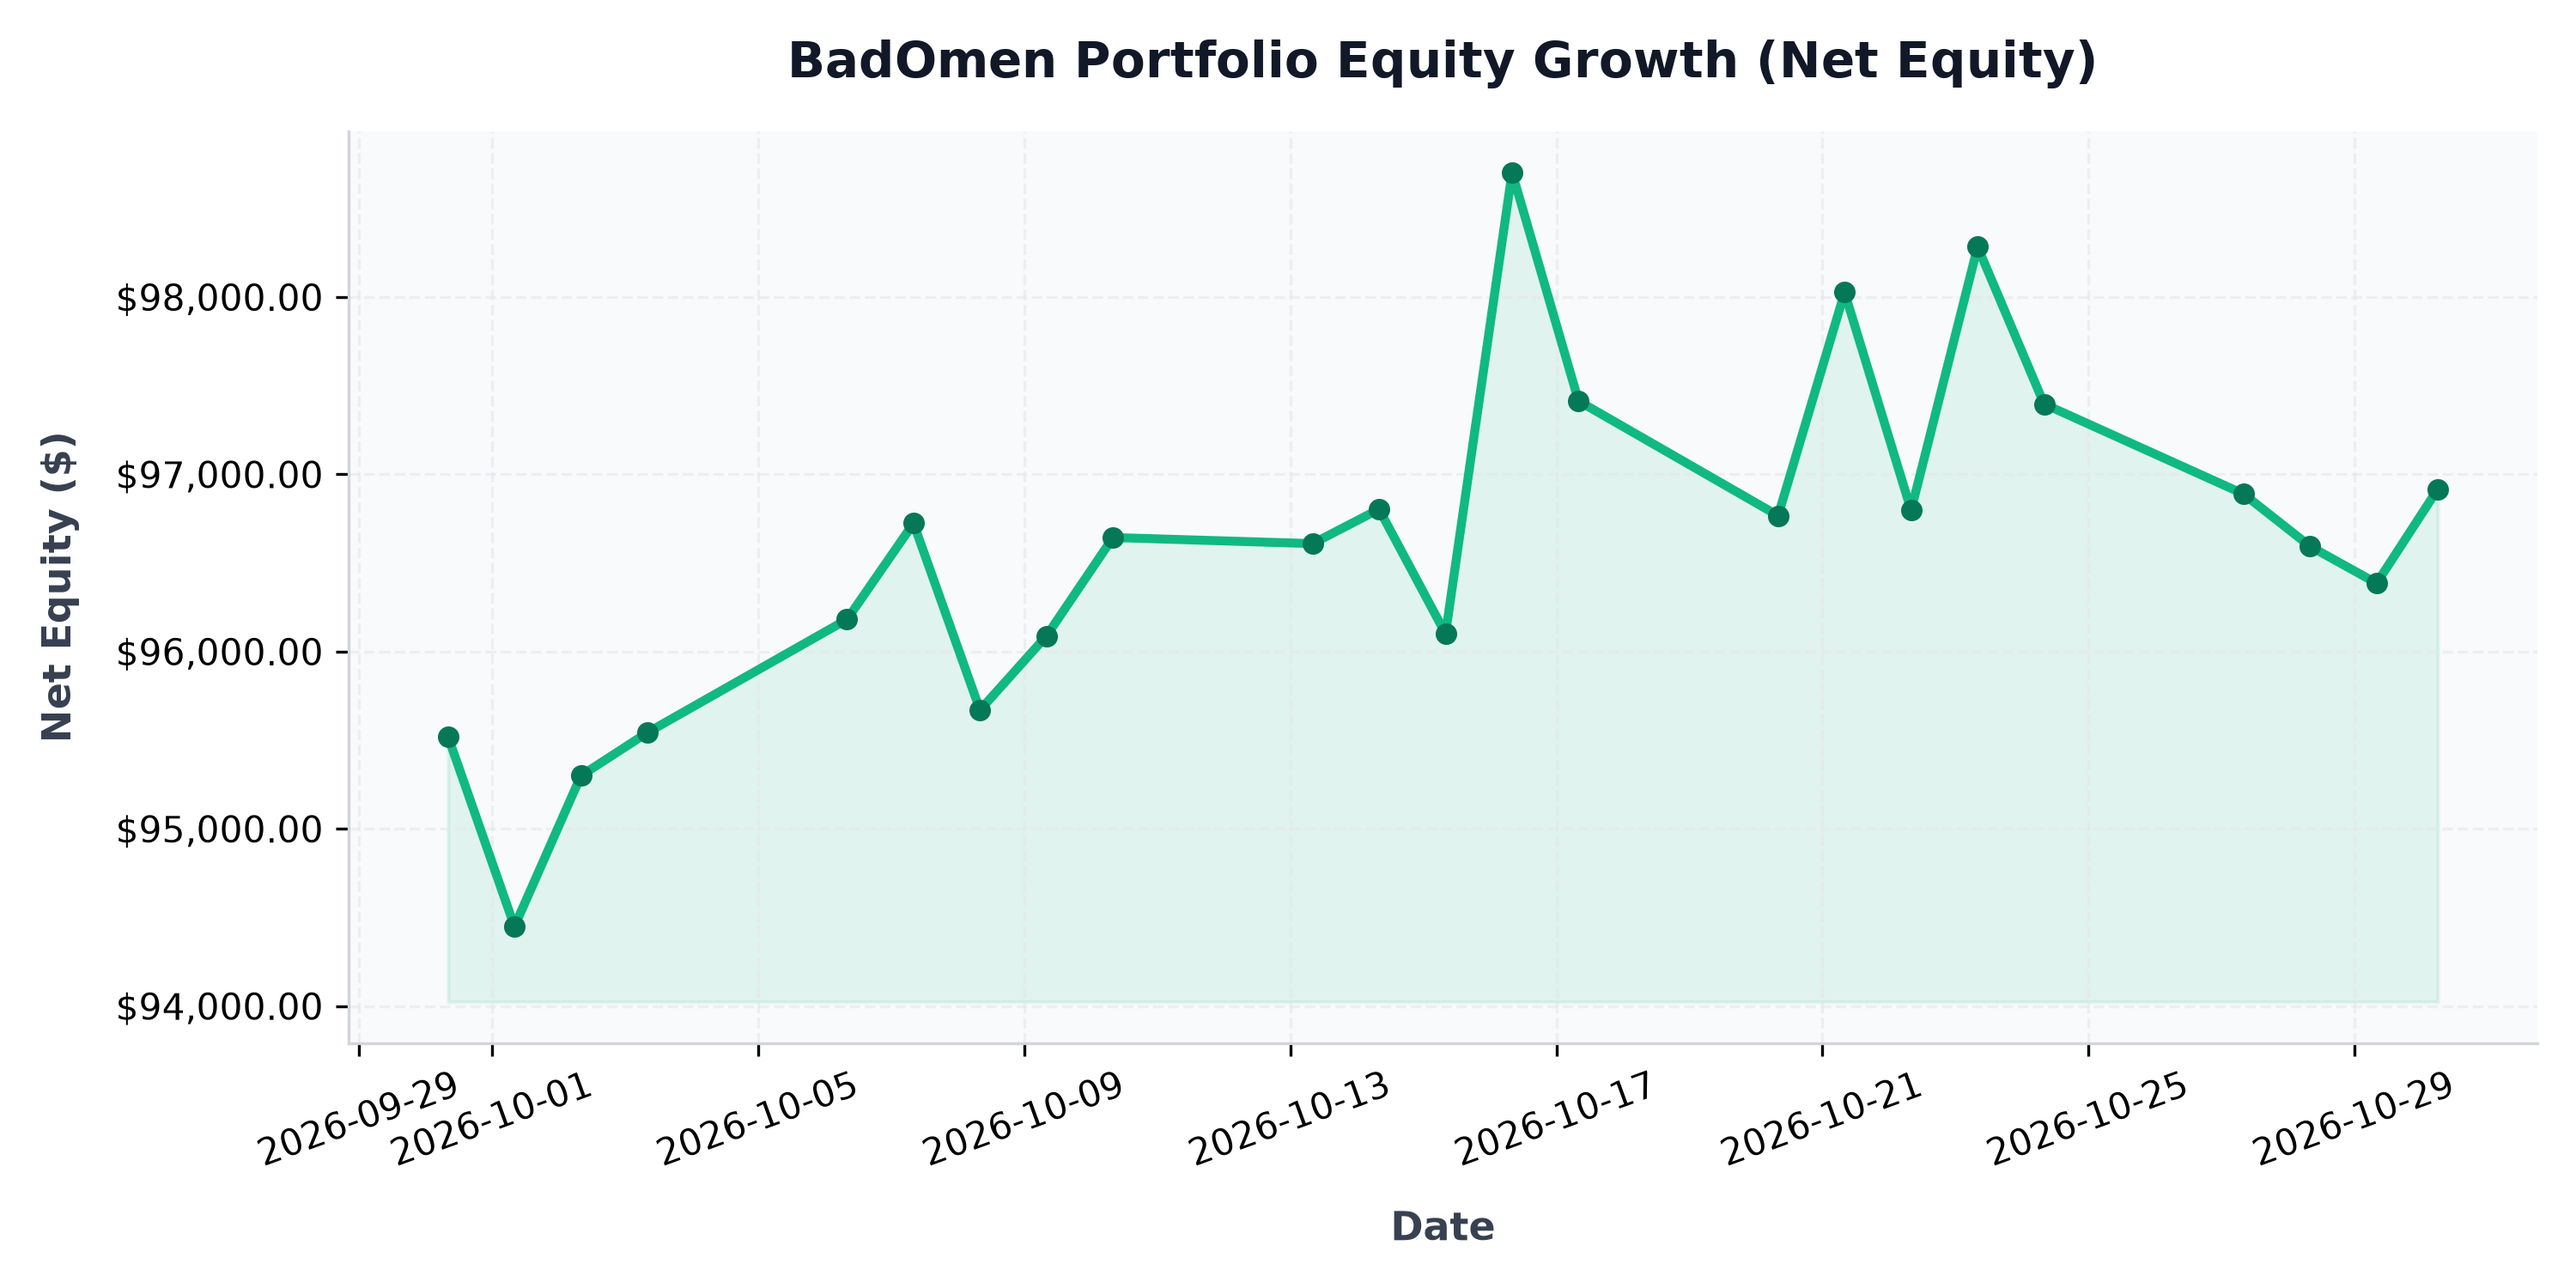
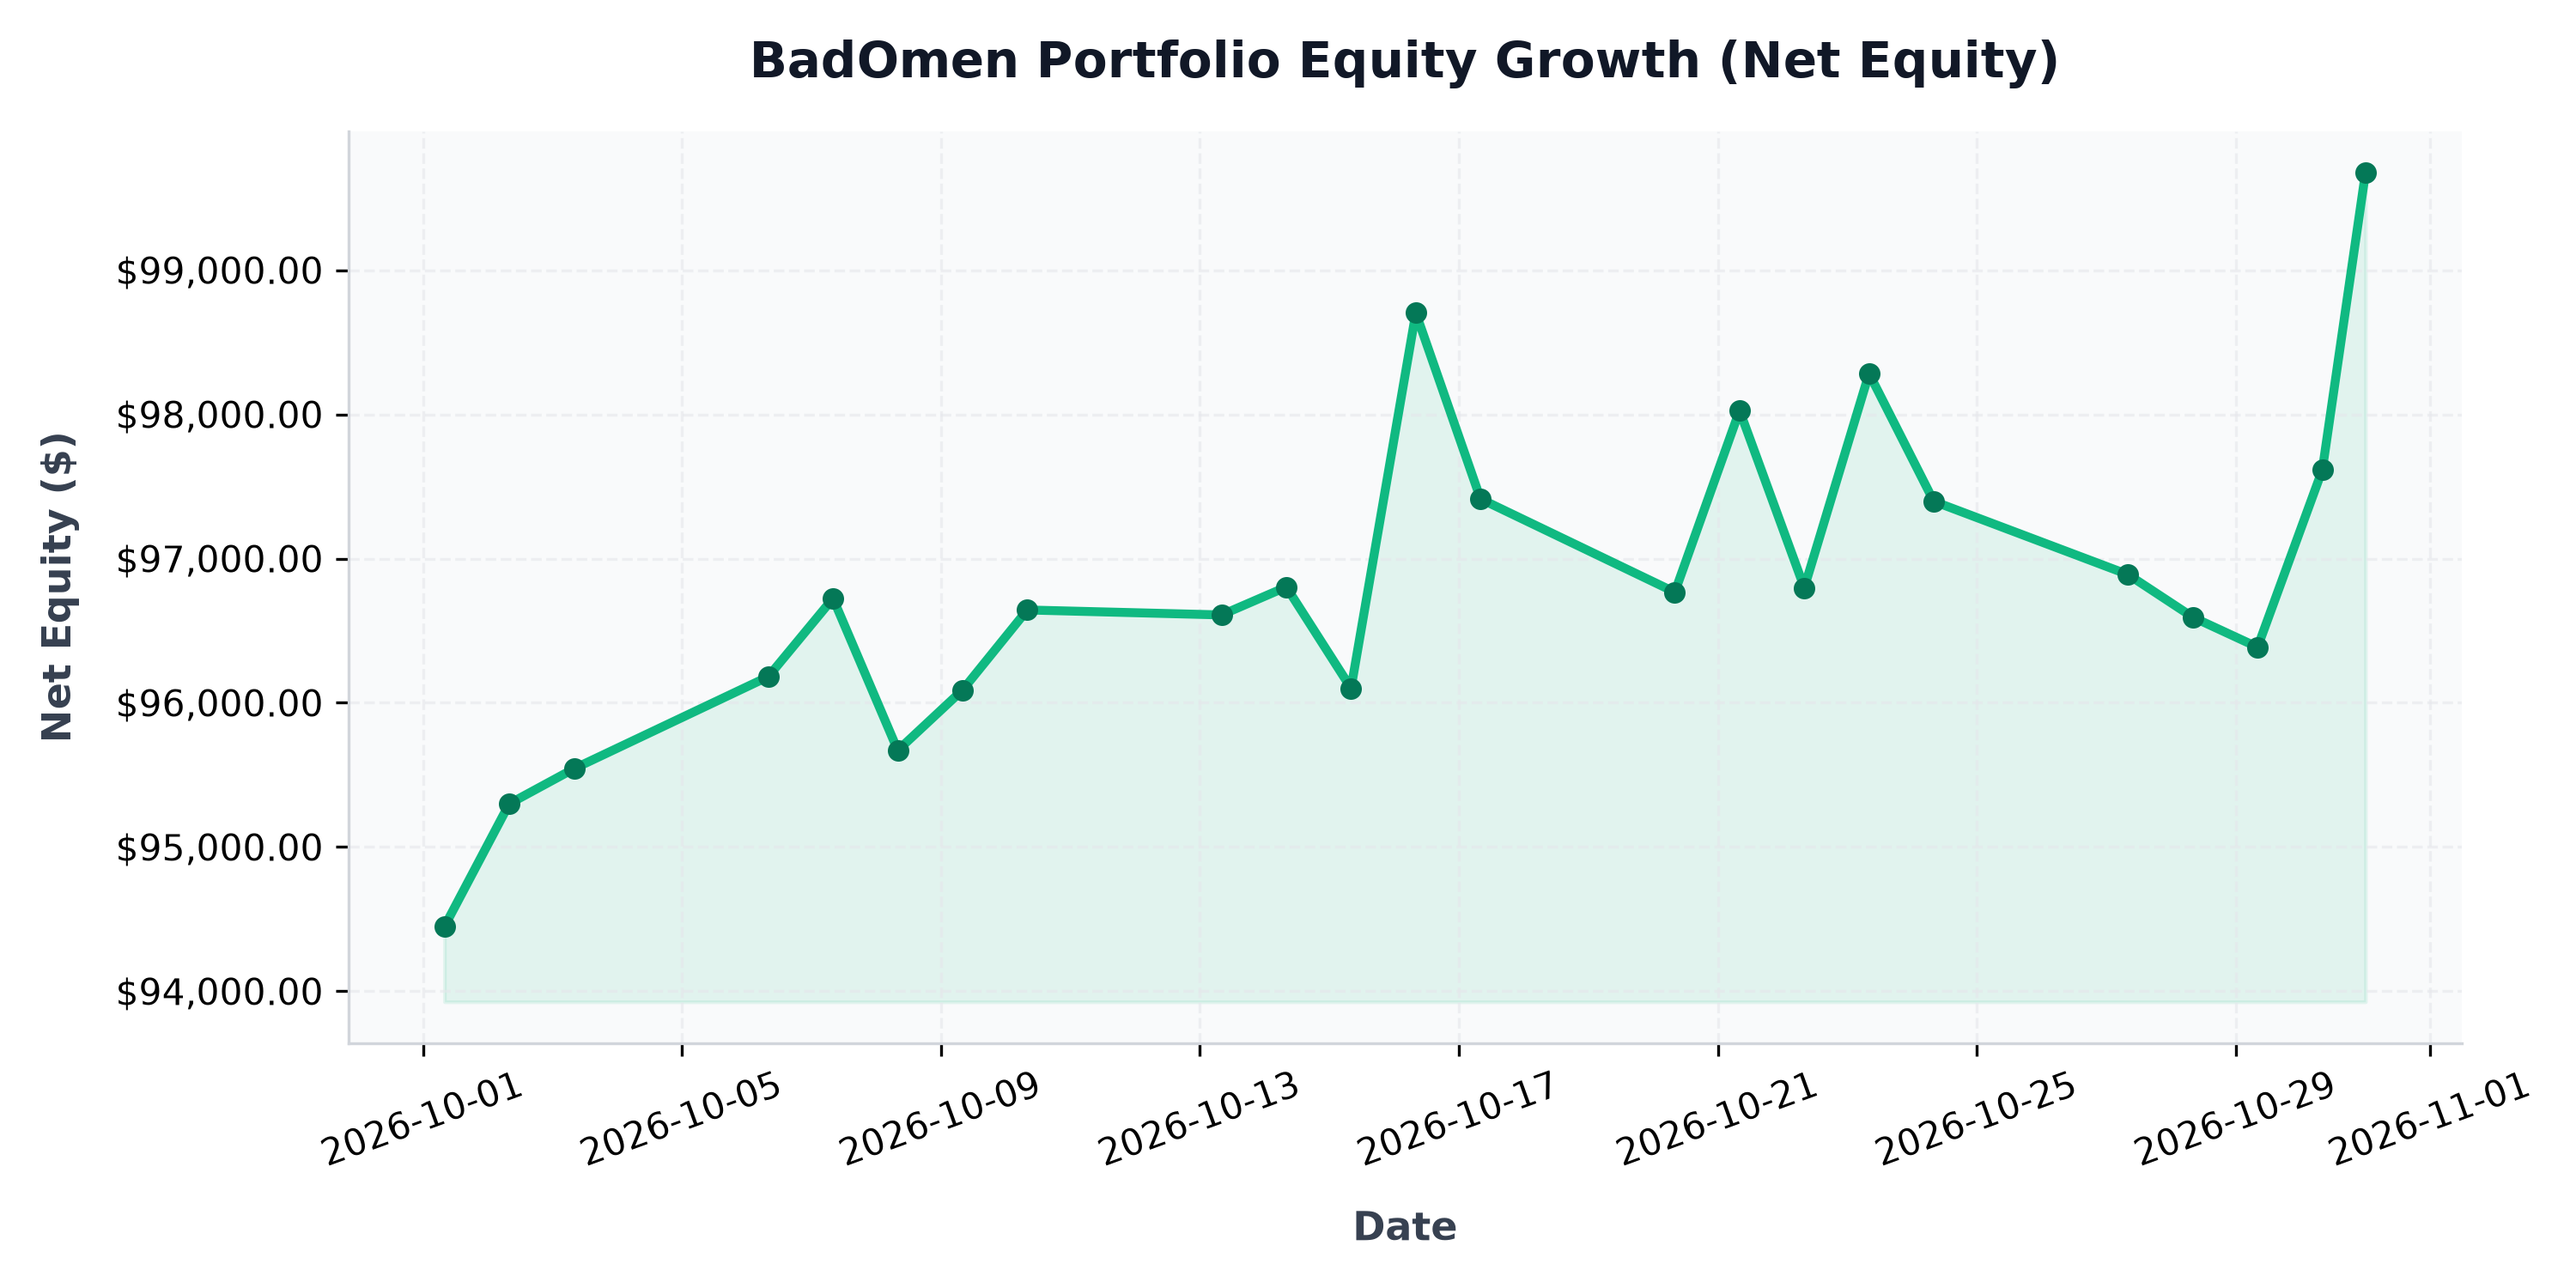
auto: daily portfolio status update - 2026-10-31 00:00:13

diff --git a/src/content/posts/portfolio-performance.md b/src/content/posts/portfolio-performance.md
@@ -1,6 +1,6 @@
 ---
 title: "BadOmen Algorithmic Portfolio Performance & PnL Report"
-pubDatetime: 2026-10-30T06:05:13.156164+08:00
+pubDatetime: 2026-10-31T00:00:13.891453+08:00
 description: "Live performance metrics, active holdings, and historic equity curve for the BadOmen automated paper trading portfolio."
 featured: true
 draft: false
@@ -16,11 +16,11 @@ Welcome to the live performance dashboard for **BadOmen**, our automated algorit
 ## 📊 Portfolio Summary
 | Performance Metric | Value | description |
 | :--- | :--- | :--- |
-| **Net Portfolio Equity** | **$96,917.25** | Total current liquidation value of cash and stock holdings |
-| **Total Unrealized P&L** | 🔴 **$-4,179.52** (-4.13%) | Total return of current open holdings |
+| **Net Portfolio Equity** | **$99,677.57** | Total current liquidation value of cash and stock holdings |
+| **Total Unrealized P&L** | 🔴 **$-1,417.87** (-1.40%) | Total return of current open holdings |
 | **Cash Balance** | $24,269.00 | Idle reserve currency available for limit orders |
-| **Buying Power** | $300,491.10 | Margin-backed buying power for entry allocations |
-| **Report Updated** | `2026-10-30 06:05:13 (SGT)` | Timestamp of daily execution and sync run |
+| **Buying Power** | $308,220.00 | Margin-backed buying power for entry allocations |
+| **Report Updated** | `2026-10-31 00:00:13 (SGT)` | Timestamp of daily execution and sync run |
 
 ## 📈 Net Equity Growth Curve
 The chart below illustrates the historical performance of the account starting from our baseline capital funding of $100,000.00.
@@ -35,35 +35,35 @@ The chart below illustrates the exposure of our currently held active positions 
 ## 💼 Current Position Holdings
 | Ticker | Industry | Shares Owned | Average Entry Cost | Current Price | Unrealized P&L | Return (%) |
 | :--- | :--- | :--- | :--- | :--- | :--- | :--- |
-| **AN** | Auto & Truck Dealerships | 5 | $188.51 | $169.34 | 🔴 $-95.84 | -10.17% |
-| **AVGO** | Semiconductors | 1 | $385.71 | $335.25 | 🔴 $-50.46 | -13.08% |
-| **BIRK** | Footwear & Accessories | 407 | $37.32 | $33.41 | 🔴 $-1,590.44 | -10.47% |
-| **BLBD** | Farm & Heavy Construction Machinery | 231 | $65.52 | $56.35 | 🔴 $-2,117.34 | -13.99% |
-| **BVN** | Other Precious Metals & Mining | 32 | $31.88 | $27.59 | 🔴 $-137.12 | -13.44% |
-| **CELH** | Beverages - Non-Alcoholic | 33 | $29.71 | $27.81 | 🔴 $-62.70 | -6.40% |
-| **CPRI** | Luxury Goods | 1042 | $14.55 | $15.70 | 🟢 +$1,196.42 | +7.89% |
-| **DUOL** | Software - Application | 14 | $131.04 | $132.00 | 🟢 +$13.38 | +0.73% |
-| **FIS** | Information Technology Services | 23 | $41.79 | $37.42 | 🔴 $-100.60 | -10.47% |
-| **GDDY** | Software - Infrastructure | 6 | $76.21 | $105.89 | 🟢 +$178.08 | +38.95% |
-| **GDS** | Information Technology Services | 30 | $32.77 | $22.95 | 🔴 $-294.60 | -29.97% |
-| **GGAL** | Banks - Regional | 17 | $56.04 | $33.73 | 🔴 $-379.26 | -39.81% |
-| **GOOGL** | Internet Content & Information | 3 | $319.44 | $281.95 | 🔴 $-112.47 | -11.74% |
-| **GPI** | Auto & Truck Dealerships | 3 | $316.15 | $259.97 | 🔴 $-168.54 | -17.77% |
-| **HUBS** | Software - Application | 8 | $221.18 | $235.00 | 🟢 +$110.55 | +6.25% |
-| **ITRI** | Scientific & Technical Instruments | 12 | $81.80 | $93.91 | 🟢 +$145.32 | +14.80% |
-| **KBR** | Engineering & Construction | 27 | $36.23 | $38.32 | 🟢 +$56.35 | +5.76% |
-| **NESR** | Oil & Gas Equipment & Services | 34 | $28.74 | $21.43 | 🔴 $-248.54 | -25.44% |
-| **NU** | Banks - Regional | 57 | $11.60 | $11.88 | 🟢 +$16.31 | +2.47% |
-| **ON** | Semiconductors | 10 | $90.45 | $73.00 | 🔴 $-174.55 | -19.30% |
-| **ORCL** | Software - Infrastructure | 5 | $181.95 | $135.00 | 🔴 $-234.75 | -25.80% |
-| **PATH** | Software - Infrastructure | 38 | $10.25 | $13.50 | 🟢 +$123.45 | +31.69% |
-| **PYPL** | Credit Services | 17 | $56.05 | $57.53 | 🟢 +$25.16 | +2.64% |
-| **QCOM** | Semiconductors | 15 | $193.68 | $178.82 | 🔴 $-222.97 | -7.67% |
-| **SMCI** | Computer Hardware | 22 | $29.25 | $33.24 | 🟢 +$87.78 | +13.64% |
-| **SRE** | Utilities - Diversified | 57 | $84.75 | $85.89 | 🟢 +$64.84 | +1.34% |
-| **T** | Telecom Services | 47 | $20.85 | $21.10 | 🟢 +$11.75 | +1.20% |
-| **WEN** | Restaurants | 257 | $8.02 | $7.12 | 🔴 $-232.26 | -11.26% |
-| **ZG** | Internet Content & Information | 31 | $31.35 | $31.79 | 🟢 +$13.54 | +1.39% |
+| **AN** | Auto & Truck Dealerships | 5 | $188.51 | $178.84 | 🔴 $-48.34 | -5.13% |
+| **AVGO** | Semiconductors | 1 | $385.71 | $325.98 | 🔴 $-59.73 | -15.49% |
+| **BIRK** | Footwear & Accessories | 407 | $37.32 | $33.42 | 🔴 $-1,586.37 | -10.45% |
+| **BLBD** | Farm & Heavy Construction Machinery | 231 | $65.52 | $55.52 | 🔴 $-2,309.07 | -15.26% |
+| **BVN** | Other Precious Metals & Mining | 32 | $31.88 | $26.73 | 🔴 $-164.64 | -16.14% |
+| **CELH** | Beverages - Non-Alcoholic | 33 | $29.71 | $29.22 | 🔴 $-16.26 | -1.66% |
+| **CPRI** | Luxury Goods | 1042 | $14.55 | $18.64 | 🟢 +$4,259.90 | +28.09% |
+| **DUOL** | Software - Application | 14 | $131.04 | $132.34 | 🟢 +$18.14 | +0.99% |
+| **FIS** | Information Technology Services | 23 | $41.79 | $38.16 | 🔴 $-83.61 | -8.70% |
+| **GDDY** | Software - Infrastructure | 6 | $76.21 | $112.45 | 🟢 +$217.44 | +47.55% |
+| **GDS** | Information Technology Services | 30 | $32.77 | $21.83 | 🔴 $-328.20 | -33.38% |
+| **GGAL** | Banks - Regional | 17 | $56.04 | $32.69 | 🔴 $-396.94 | -41.67% |
+| **GOOGL** | Internet Content & Information | 3 | $319.44 | $282.20 | 🔴 $-111.72 | -11.66% |
+| **GPI** | Auto & Truck Dealerships | 3 | $316.15 | $257.39 | 🔴 $-176.29 | -18.59% |
+| **HUBS** | Software - Application | 8 | $221.18 | $237.68 | 🟢 +$131.99 | +7.46% |
+| **ITRI** | Scientific & Technical Instruments | 12 | $81.80 | $95.68 | 🟢 +$166.56 | +16.97% |
+| **KBR** | Engineering & Construction | 27 | $36.23 | $38.70 | 🟢 +$66.61 | +6.81% |
+| **NESR** | Oil & Gas Equipment & Services | 34 | $28.74 | $21.00 | 🔴 $-262.99 | -26.91% |
+| **NU** | Banks - Regional | 57 | $11.60 | $11.68 | 🟢 +$4.36 | +0.66% |
+| **ON** | Semiconductors | 10 | $90.45 | $71.10 | 🔴 $-193.55 | -21.40% |
+| **ORCL** | Software - Infrastructure | 5 | $181.95 | $131.66 | 🔴 $-251.43 | -27.64% |
+| **PATH** | Software - Infrastructure | 38 | $10.25 | $13.82 | 🟢 +$135.85 | +34.88% |
+| **PYPL** | Credit Services | 17 | $56.05 | $56.97 | 🟢 +$15.64 | +1.64% |
+| **QCOM** | Semiconductors | 15 | $193.68 | $164.77 | 🔴 $-433.72 | -14.93% |
+| **SMCI** | Computer Hardware | 22 | $29.25 | $32.26 | 🟢 +$66.11 | +10.27% |
+| **SRE** | Utilities - Diversified | 57 | $84.75 | $86.36 | 🟢 +$91.63 | +1.90% |
+| **T** | Telecom Services | 47 | $20.85 | $21.41 | 🟢 +$26.09 | +2.66% |
+| **WEN** | Restaurants | 257 | $8.02 | $7.21 | 🔴 $-210.41 | -10.20% |
+| **ZG** | Internet Content & Information | 31 | $31.35 | $31.84 | 🟢 +$15.09 | +1.55% |
 
 ## 🔴 Recent Realized Trades
 | Ticker | Shares Sold | Entry Price | Exit Price | Strategy Trigger | Realized Return | Exit Date |
